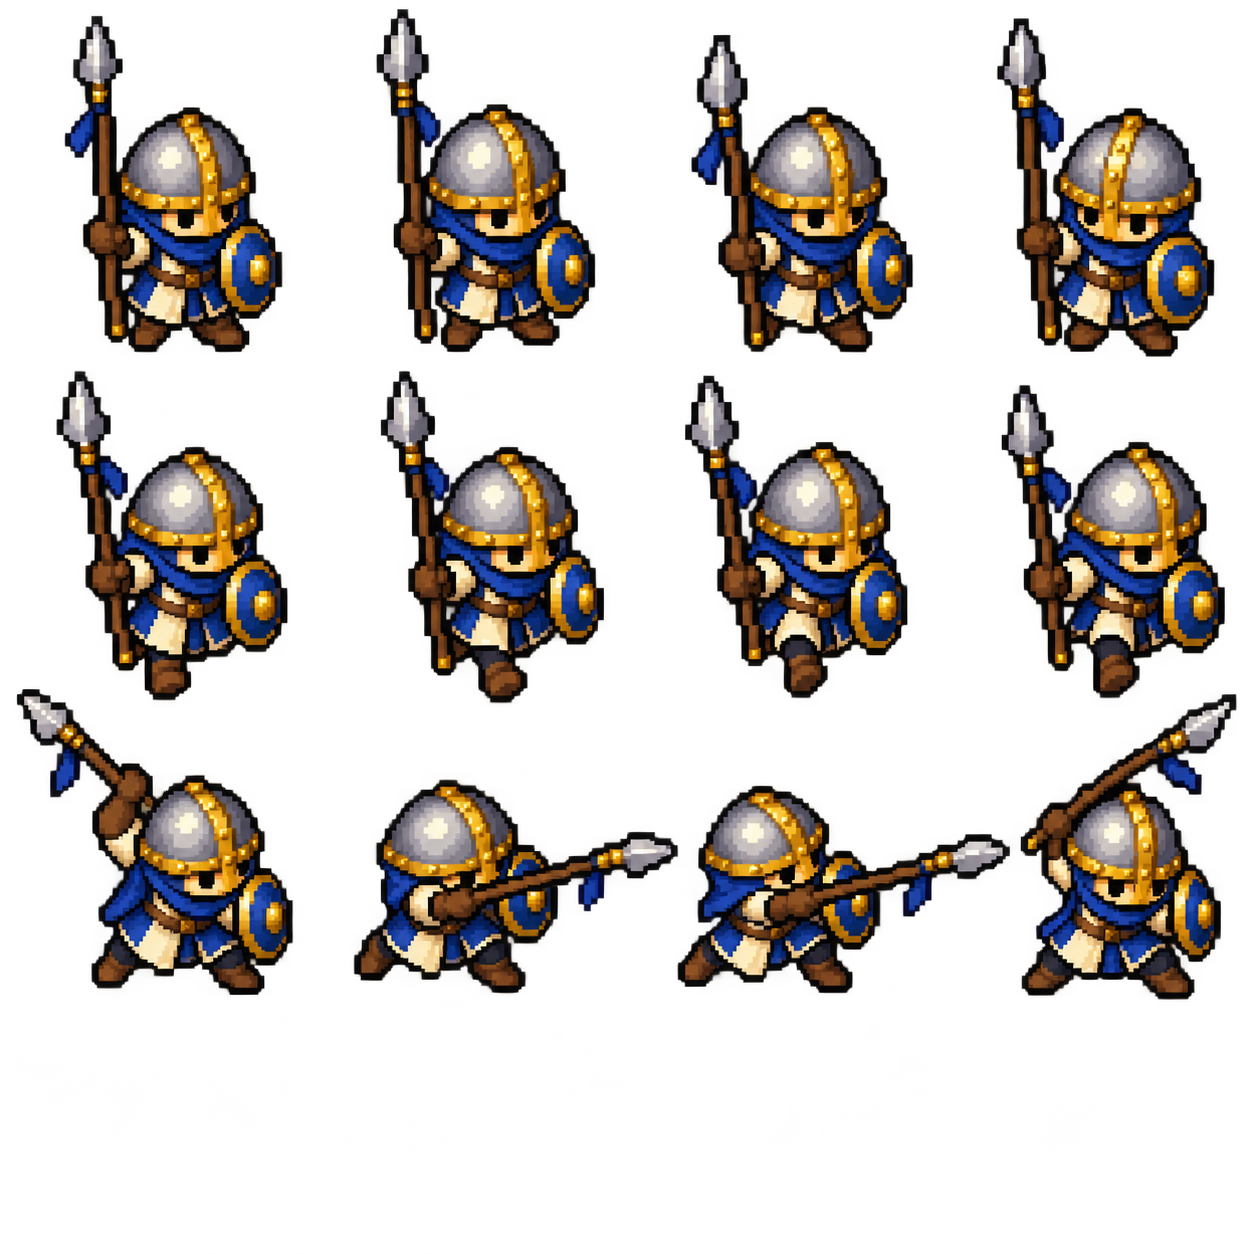
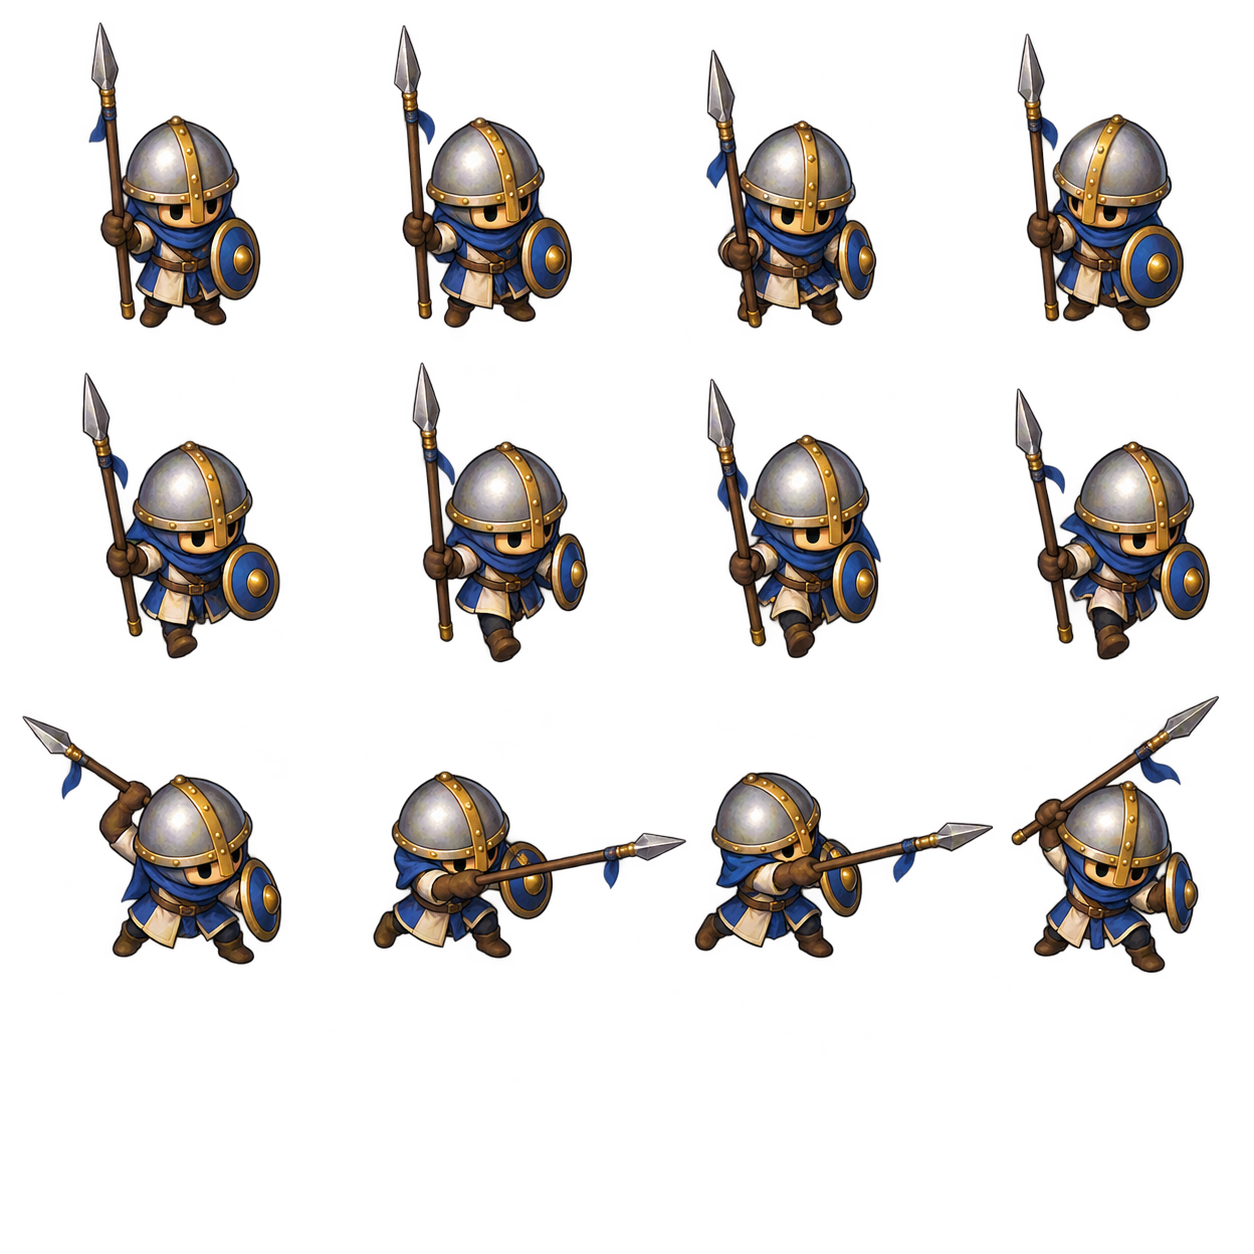
Restyle tactical units as smooth 2D characters

diff --git a/strategy-game/docs/art/smooth-unit-guide.md b/strategy-game/docs/art/smooth-unit-guide.md
@@ -1,0 +1,10 @@
+# Smooth battle unit guide
+
+The ten role and team atlases reuse the project's original smooth chibi artwork from commit `b6c24ec`. This restores antialiased silhouettes in place of the later pixel versions while keeping every existing battle animation and team identity.
+
+- Keep the shared three-quarter view, oversized helmet, compact body, and fixed boot position.
+- Show each role through one large prop: shield and sword, long spear, broad axe, bow, or command banner.
+- Use blue or red cloth and shields for team recognition; steel and leather stay neutral.
+- Keep all 12 poses on a transparent 1254 × 1254 sheet. The game uses three poses from each idle, walk, and attack row.
+- Render with linear filtering. At default zoom, silhouette and team color matter more than costume detail.
+- Future repainting should use matte metal and cloth, soft edges, and restrained highlights to match the terrain.
